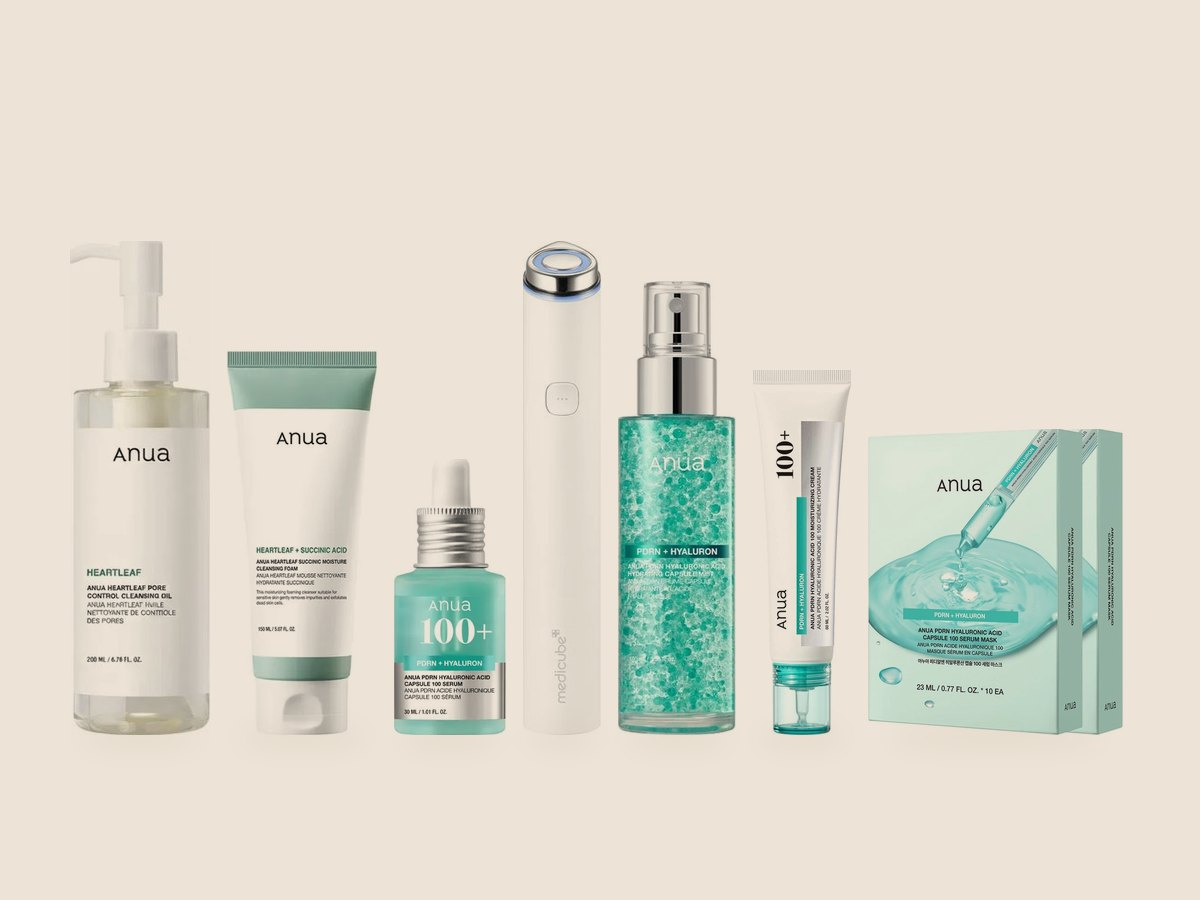
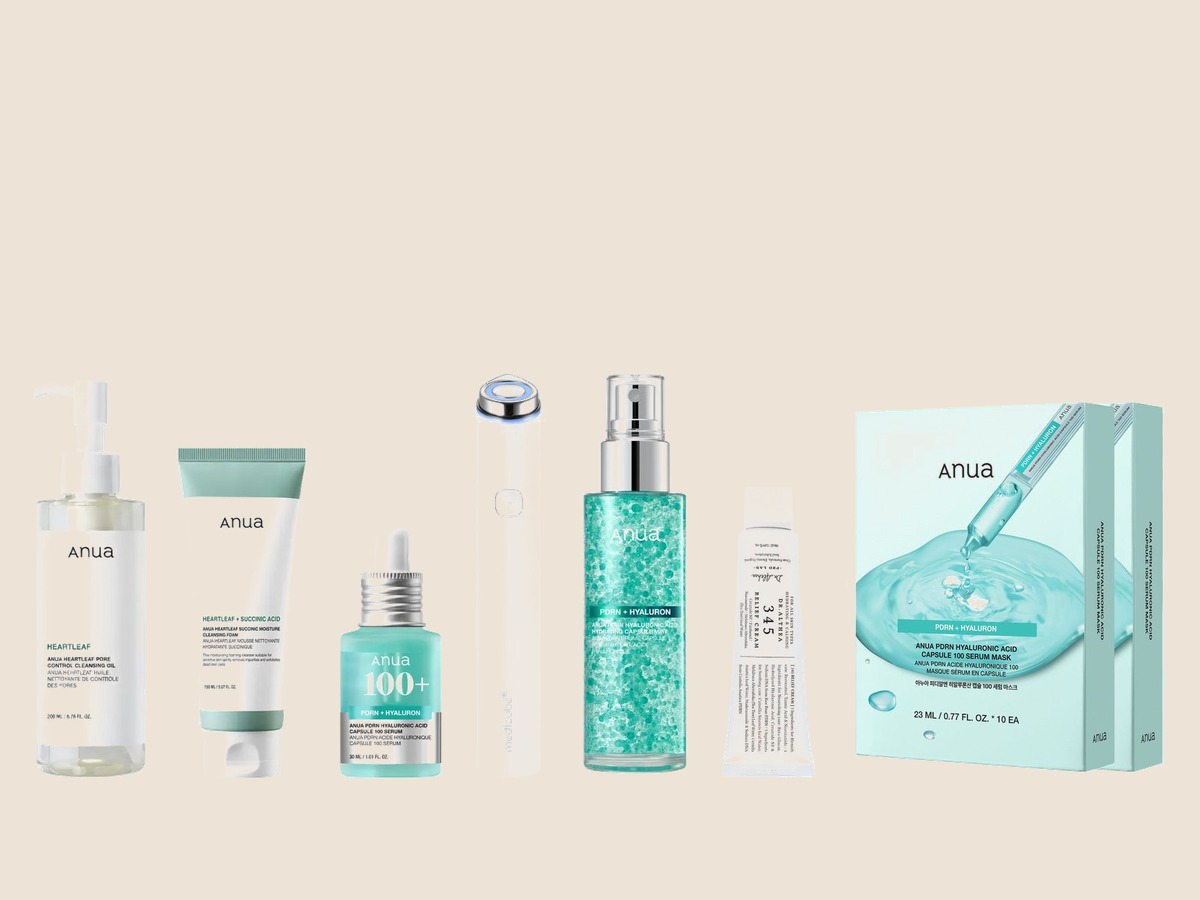
Montaje del kit completo con la crema Dr. Althea 345

Changed region(s): [[0.4317, 0.2489, 0.9867, 0.8711], [0.0308, 0.2489, 0.4317, 0.8711], [0.4008, 0.4044, 0.4625, 0.4667]]

diff --git a/index.html b/index.html
@@ -313,7 +313,7 @@ var PASOS = [
 var ANUA = ["Aceite limpiador","Espuma limpiadora","Sérum PDRN","Bruma PDRN","Crema Dr. Althea 345","Mascarilla"];
 
 var P = [
-  {id:"kit-booster", paso:"kits", kit:true, marca:"Rutina completa", nombre:"Kit completo con booster", pedidoNombre:"Kit completo con booster", precio:259, separado:280, img:"img/althea.jpg",
+  {id:"kit-booster", paso:"kits", kit:true, marca:"Rutina completa", nombre:"Kit completo con booster", pedidoNombre:"Kit completo con booster", precio:259, separado:280, img:"img/kit-con-booster.jpg",
    incluye:ANUA, extra:"Booster medicube AGE-R Mini",
    desc:"La rutina completa, de la doble limpieza a la crema, más el booster de medicube, que ayuda a que tu sérum y tu crema rindan más."},
   {id:"kit-pdrn", paso:"kits", kit:true, marca:"PDRN + booster", nombre:"Kit PDRN con booster", pedidoNombre:"Kit PDRN con booster", precio:182, separado:198, img:"img/kit-pdrn-booster.jpg",
